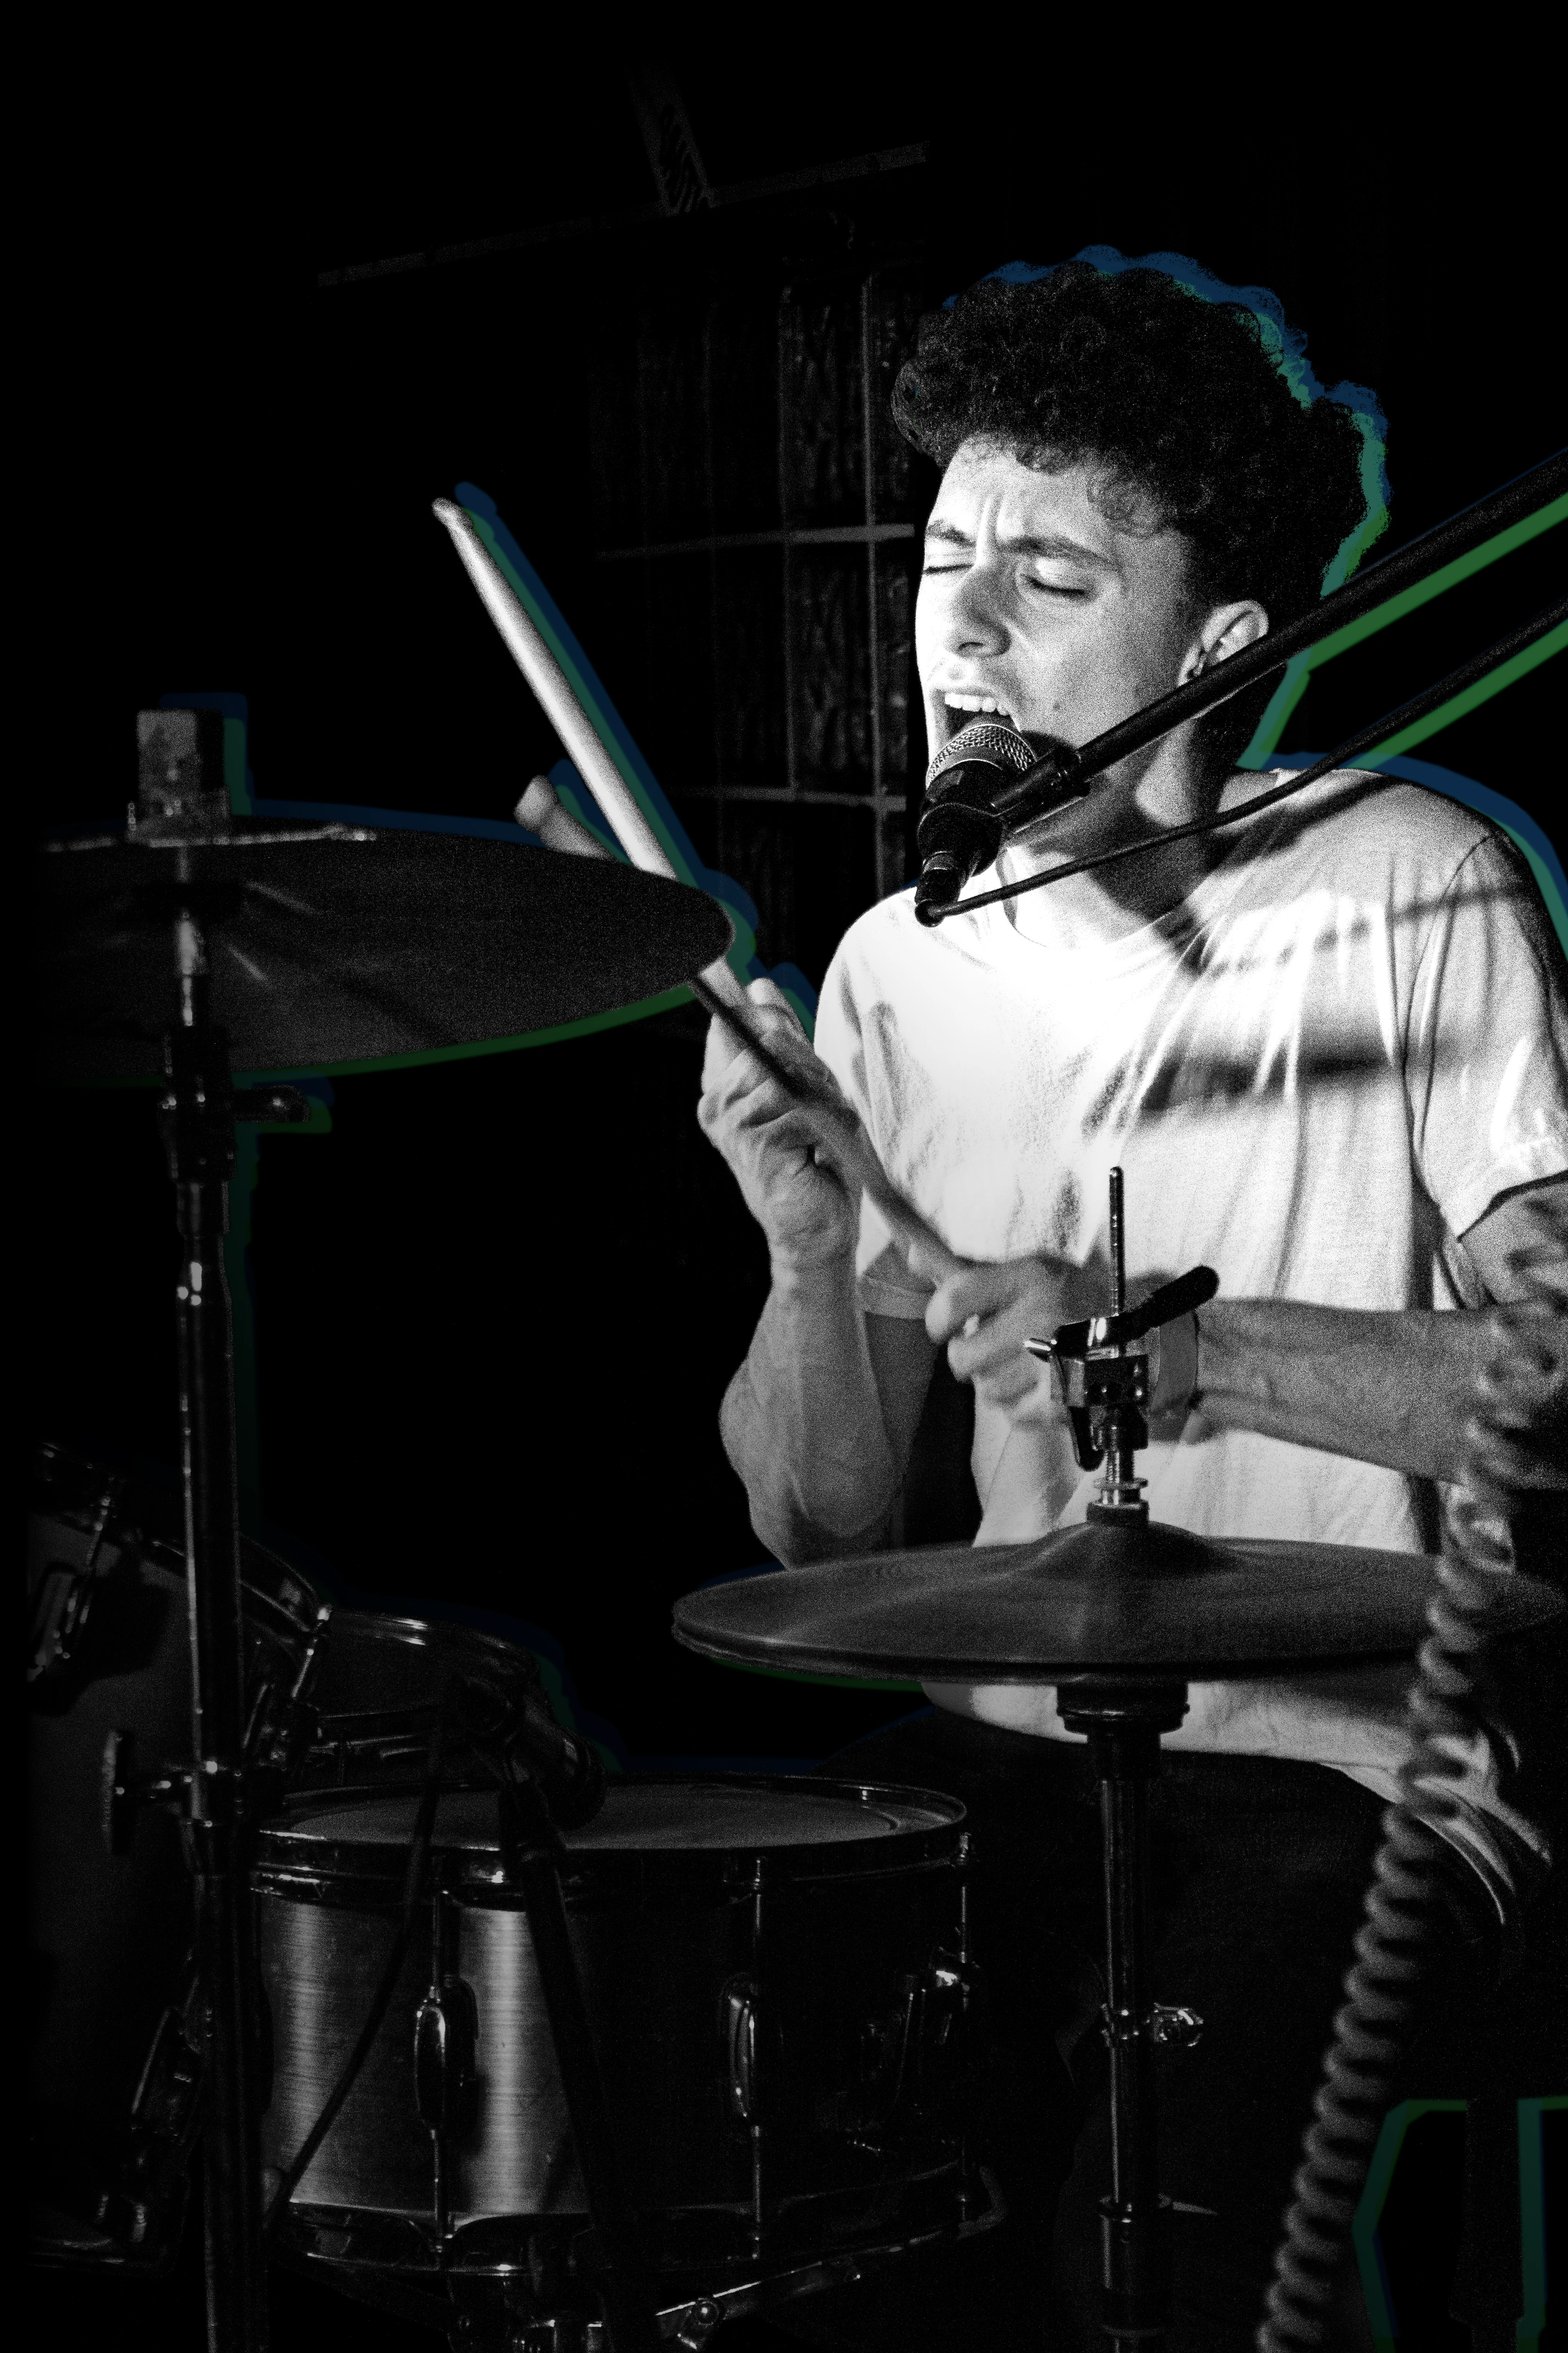
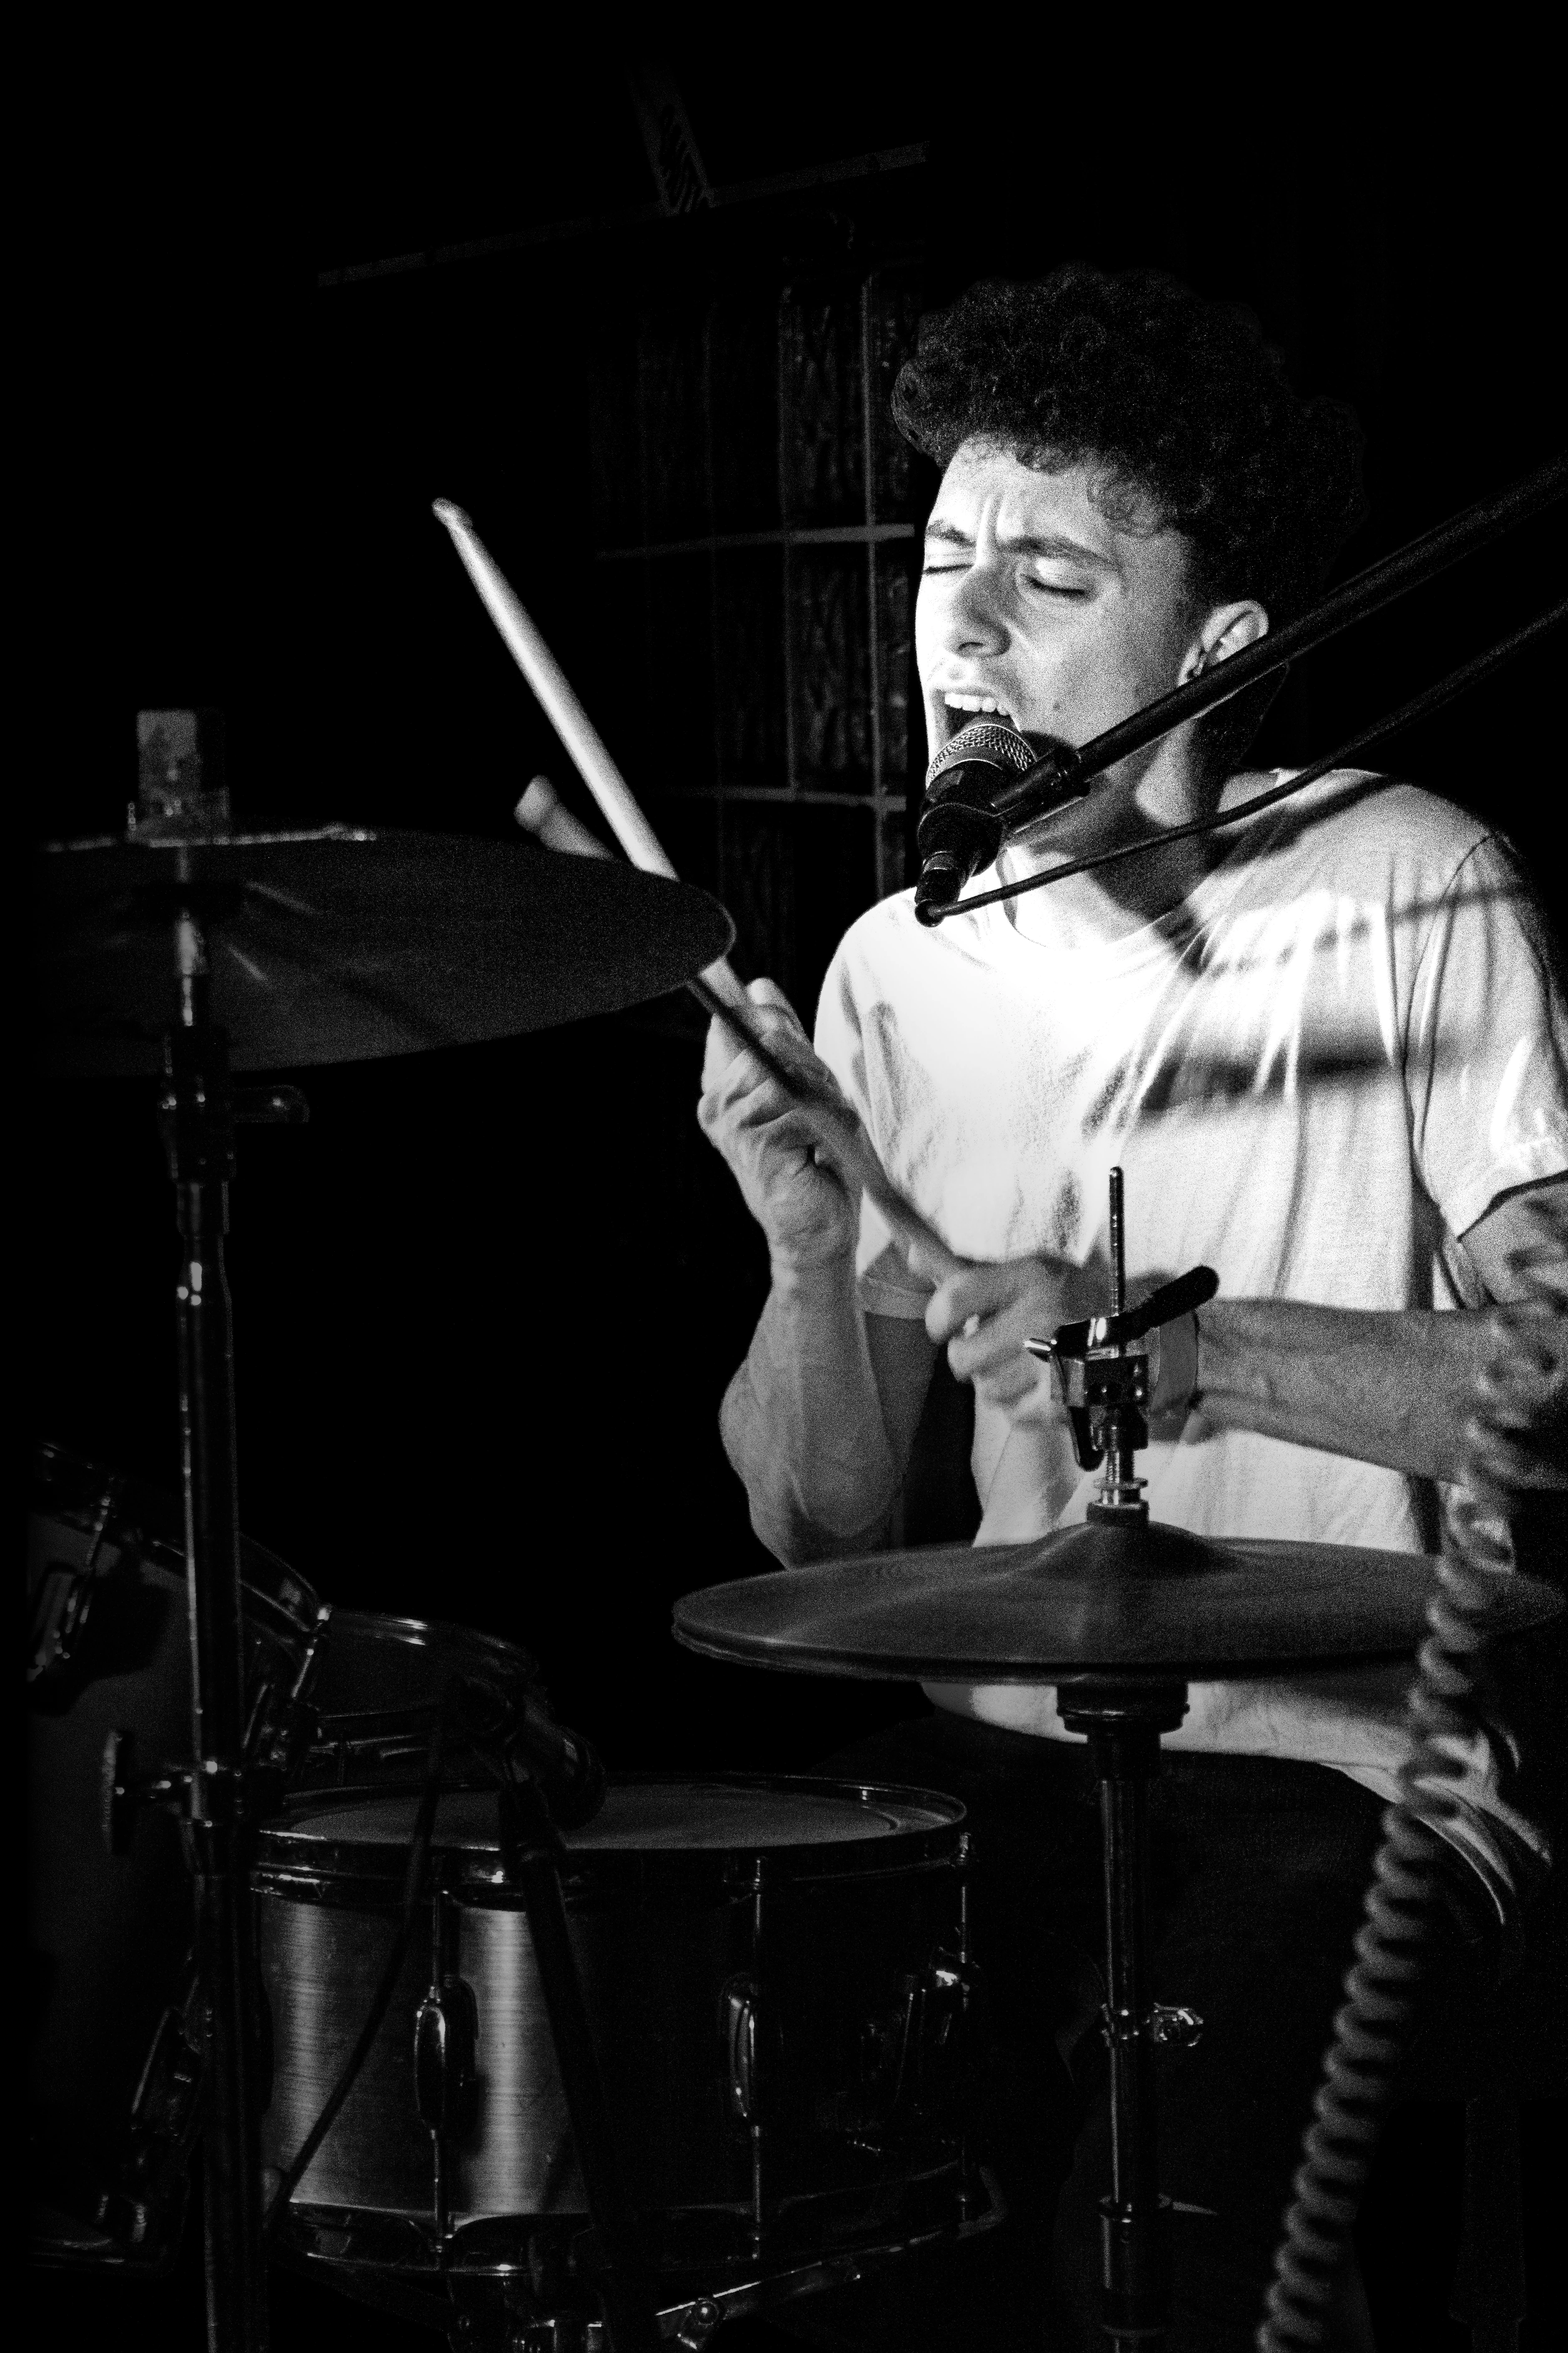
changed primary color, removed hero image highlights

diff --git a/assets/scss/styles.scss b/assets/scss/styles.scss
@@ -5,7 +5,7 @@
 $body-bg-dark: black;
 $body-color-dark: #FFF;
 
-$primary: blue;
+$primary: #00C15B;
 $secondary: orange;
 
 $code-color: #48E91D;
